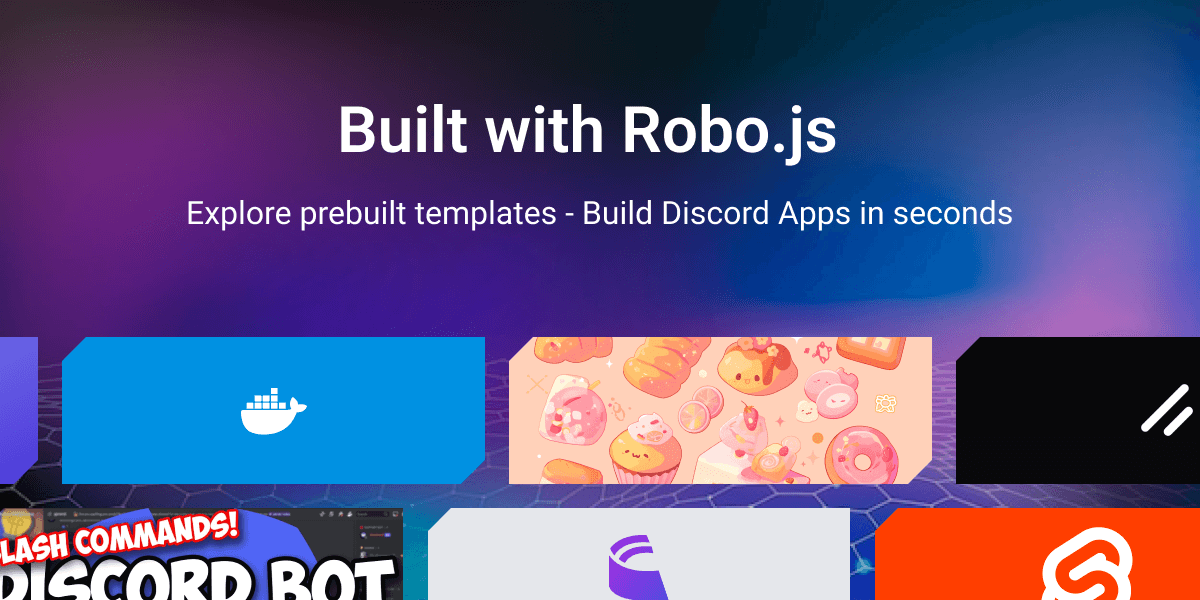
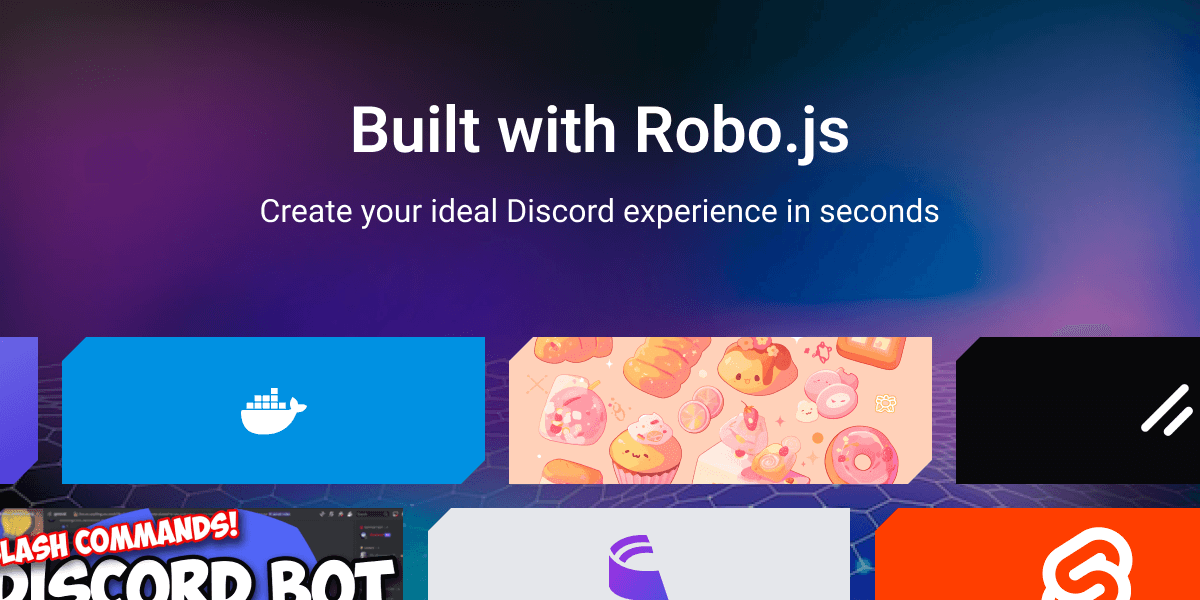
chore(docs): updated templates page meta
Slight tweaks to og:image and description.

diff --git a/docs/src/pages/templates.tsx b/docs/src/pages/templates.tsx
@@ -13,7 +13,7 @@ const OgImage = 'https://robojs.dev/templates/og-image.png'
 
 export default function TemplatesPage() {
 	return (
-		<Layout title={`Built with Robo.js`} description="Explore prebuilt templates - Build Discord Apps in seconds">
+		<Layout title={`Built with Robo.js`} description="Explore pre-built examples from WavePlay and our community. Kickstart your Discord Apps in seconds with the perfect template.">
 			<Head>
 				<meta property="og:image" content={OgImage} />
 				<meta property="og:image:width" content="1200" />
